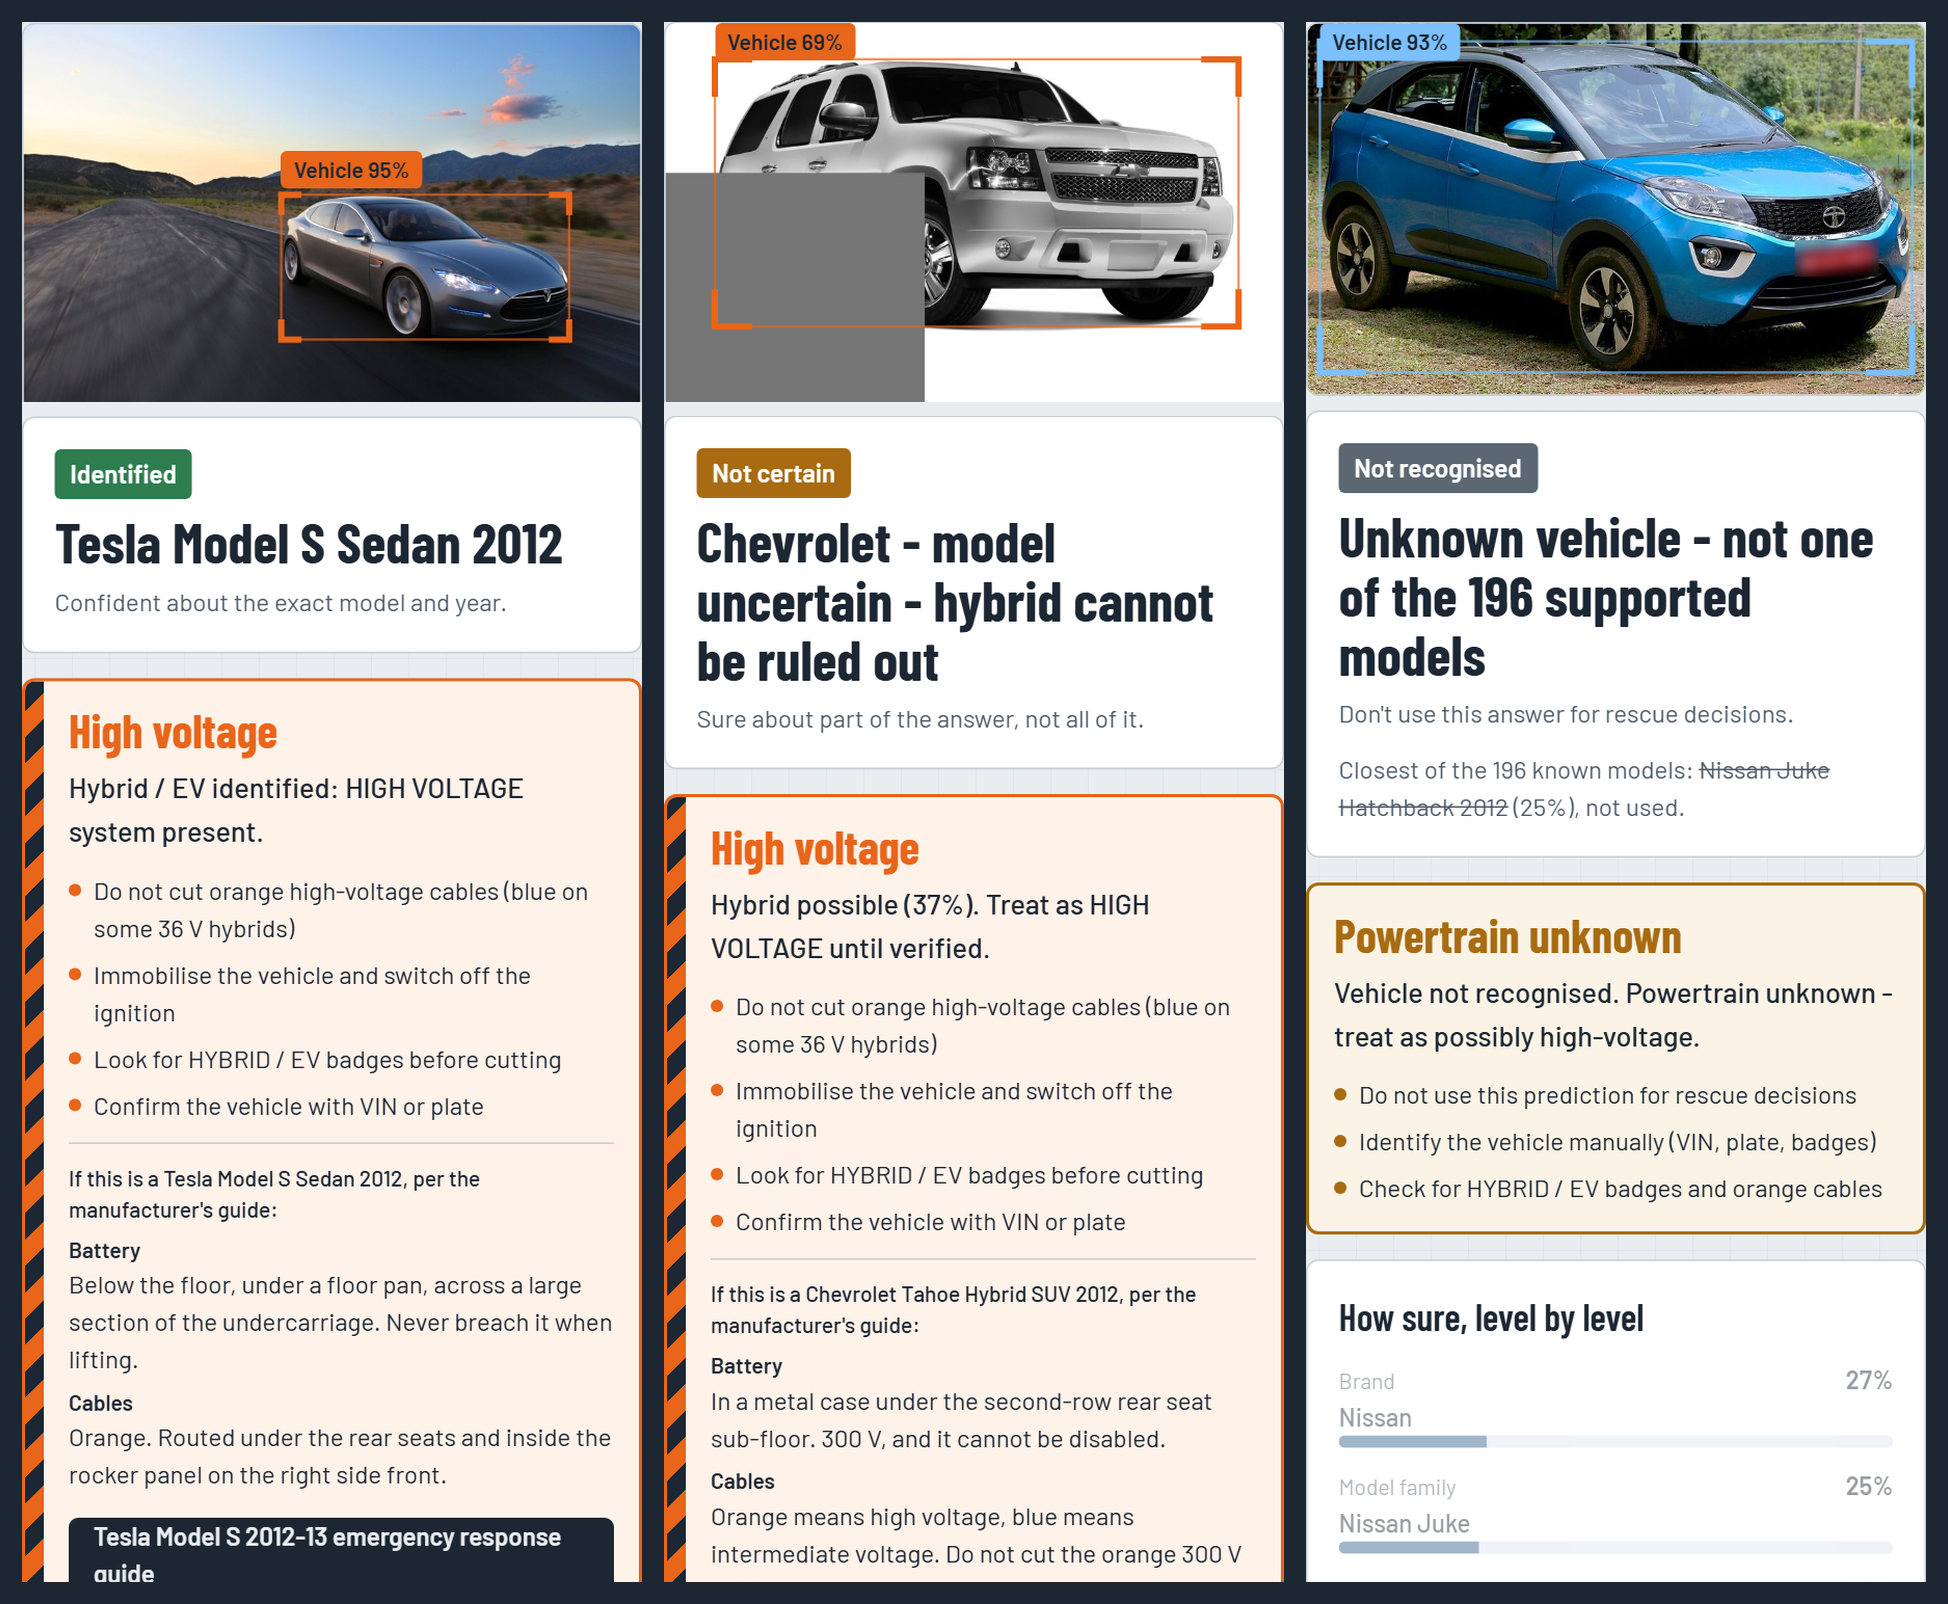
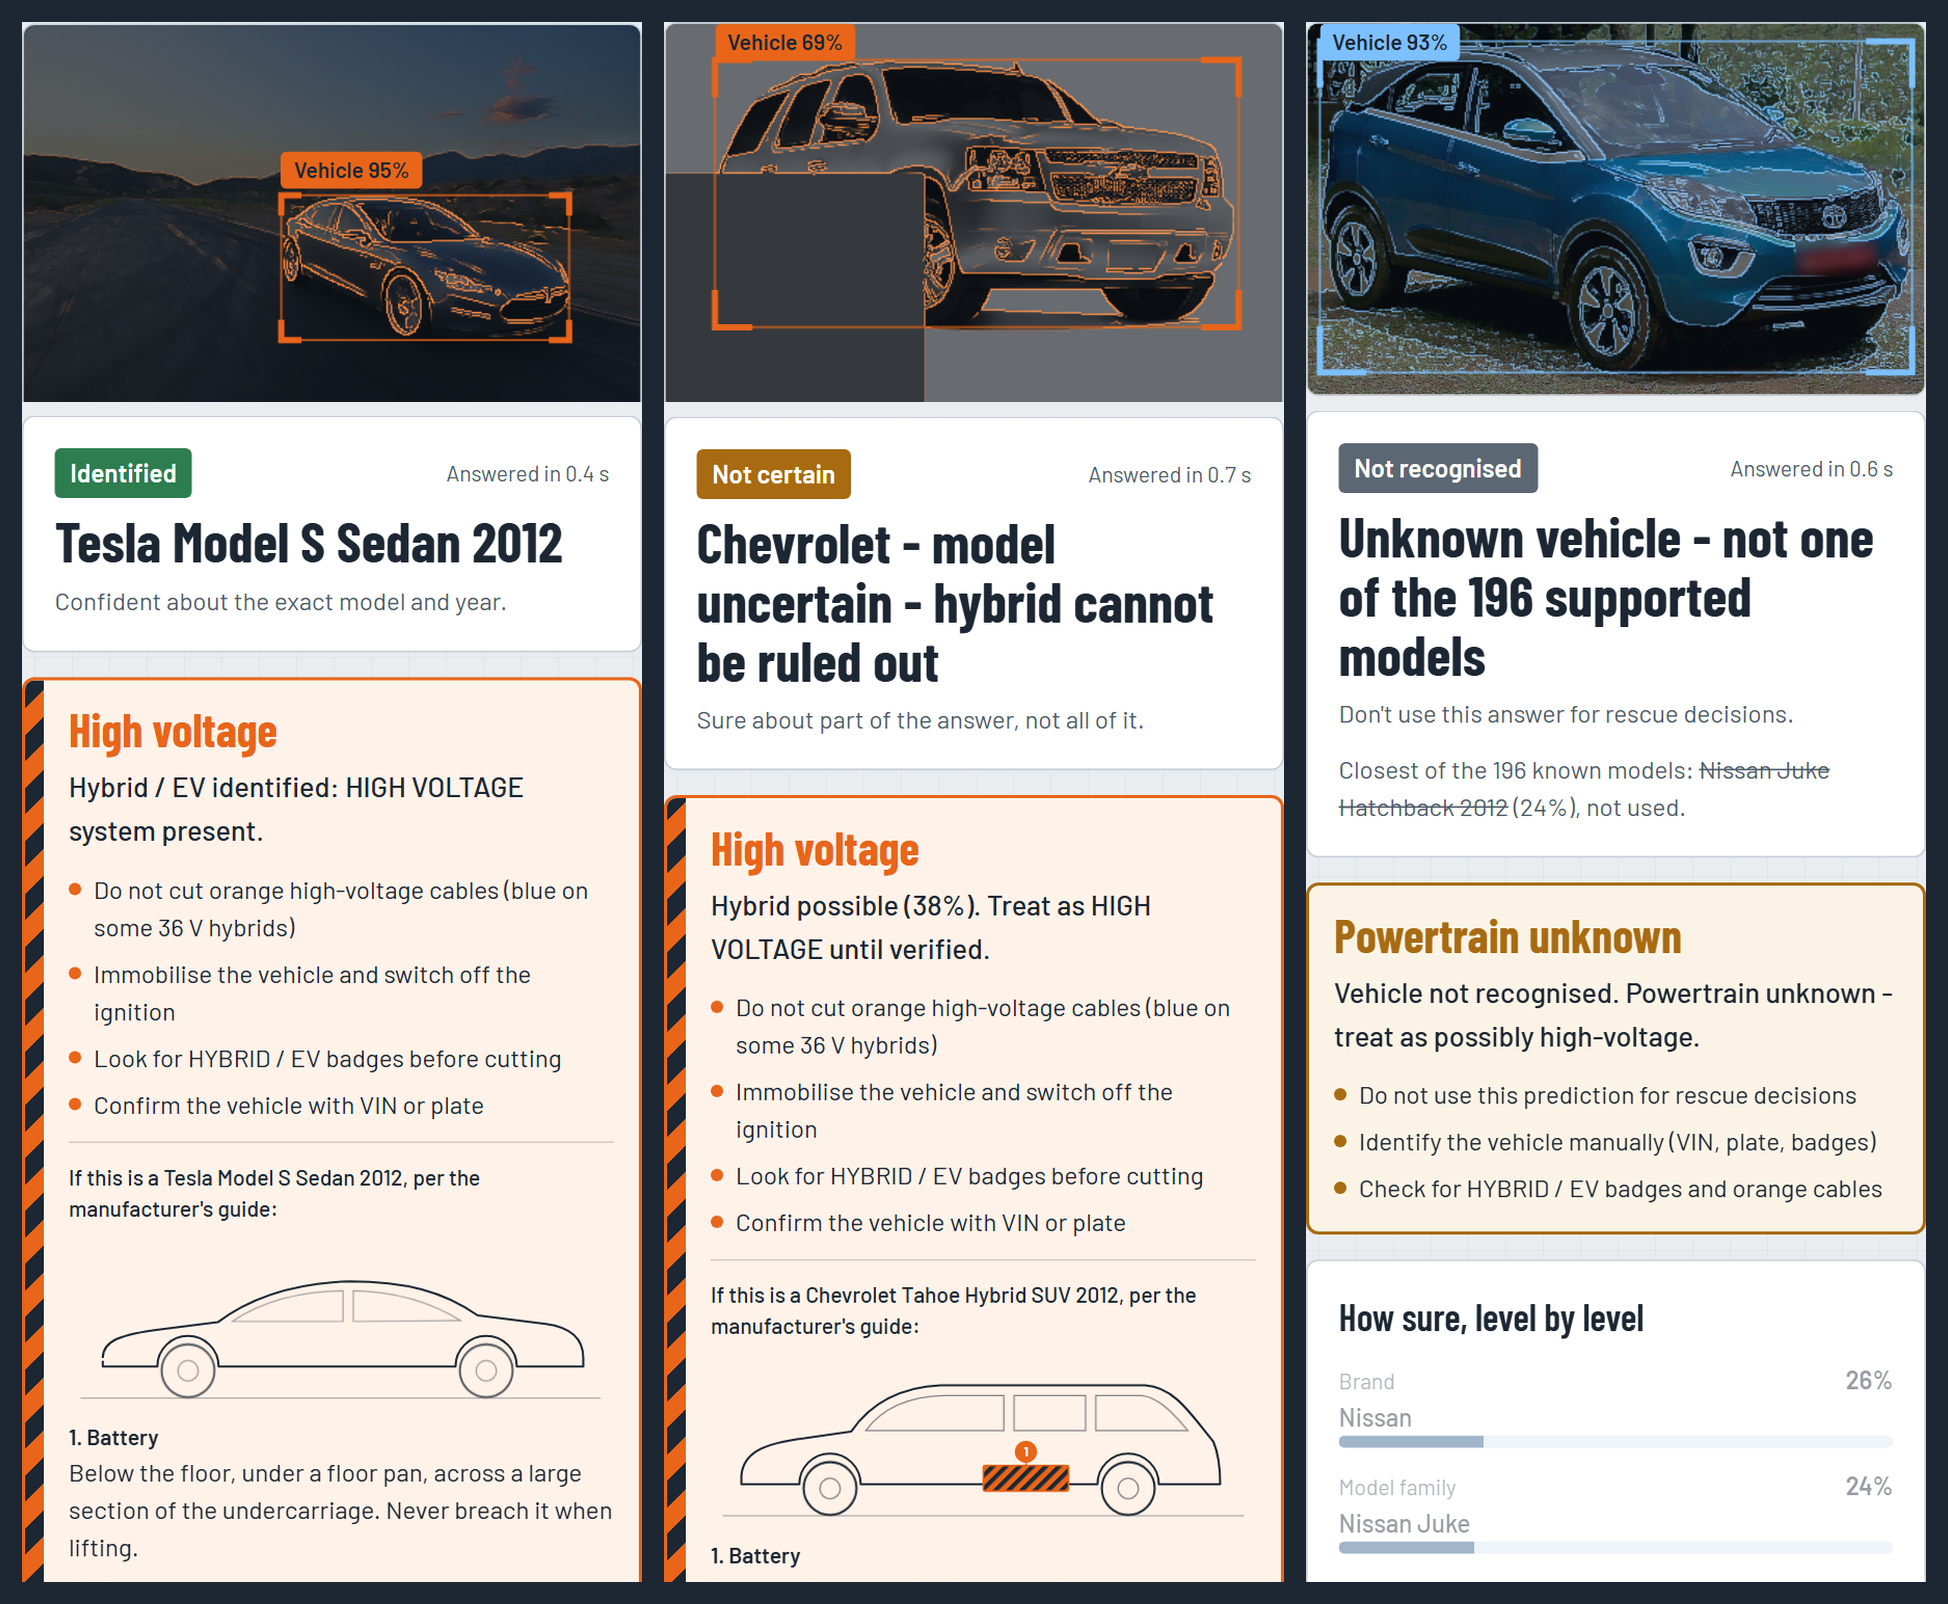
docs: update README visuals, demo recorder and viva sheet for the new UI

diff --git a/README.md b/README.md
@@ -45,12 +45,15 @@ RescueLens identifies a vehicle from how it looks, across 196 make, model and ye
 - **Live camera that locks.** A frame every 1.5 s, with a live edge drawing and corner ticks on the detected vehicle. Three agreeing frames lock the answer.
 - **Warnings never wait.** A high-voltage warning shows on the first frame that raises it, and a car flickering between "warning" and "no warning" can never lock as safe.
 - **Summed-probability safety rule.** No single hybrid has to win. If all 9 hybrid/EV classes together reach 5%, the warning fires.
-- **Battery and cable locations.** Read from manufacturer guides for all 9 models, with [every source and caveat listed](docs/hazard-sources.md).
+- **A rescue sheet that draws itself.** A technical drawing marks where the battery sits and how the cables run, read from manufacturer guides for all 9 models, with [every source and caveat listed](docs/hazard-sources.md).
 - **Unknown-car detection.** Softmax confidence can stay high on cars it has never seen, so it also measures distance to the training cars.
-- **Stress test.** Drag darkness, smoke, blur or occlusion sliders and watch the answer and the advice change.
+- **Automatic stress sweep.** One button runs your photo through the real model at 8 rising levels of darkness, smoke, blur or occlusion, plots the confidence curve live and says exactly where the answer broke.
+- **It shows its working.** While the model runs, the photo dims into a blueprint of its real edge map. When the answer lands, the drawing snaps onto the detected vehicle.
 - **Three approaches, side by side.** Classical computer vision, deep learning and the hybrid on the same photo, with every classical step visible.
 - **Works without signal (opt-in).** An installable app can run the models on the device, under the same safety rules, pinned to the server by a shared test file.
 - **Fails safely.** A crash shows safe advice and a "Start again" button, never a blank page.
+
+![The automatic stress sweep on the real model: the answer holds as blur rises, then the curve drops and the app says where it changed](docs/img/stress-sweep.png)
 
 ## Try these on the live app
 

diff --git a/docs/BUILD_PLAN.md b/docs/BUILD_PLAN.md
@@ -117,7 +117,7 @@ and update the "Run it" section of the README. (Decide as a team; it makes the m
 2. (0:20-0:50) Clear sample -> identified, box, pipeline steps.
 3. (0:50-1:20) "Hybrid that looks like a petrol car": classical-only says Sonata (petrol), RescueLens says Sonata **Hybrid**
    + high-voltage banner + official guide.
-4. (1:20-1:50) Stress test: slide blur/hidden until the status flips to "Not certain" and the advice changes.
+4. (1:20-1:50) Stress test: press "Sweep occlusion" or "Sweep blur" and let the curve show where the answer breaks.
 5. (1:50-2:20) Judge's own photo (likely an Indian car) -> "Not recognised, treat as possibly high-voltage".
 6. (2:20-2:50) Model report: 94.55% top-1, crop +2.9 points, INT8 3.5x smaller, 1.15% missed hybrids, 58 of 60 unknown cars caught.
    Live camera goes into step 4 if the phone and venue connection allow it (see `docs/field-kit.md` section 5).
@@ -176,7 +176,7 @@ Rules: never evaluate on the test split while choosing settings (use val); keep 
 ### Product features (beyond the rubric)
 8. **Offline on-device mode.** Run the INT8 classifier + YOLO in the browser with onnxruntime-web (WebGPU/WASM) as an
    installable PWA: rural crash sites often have no signal. Biggest "real product" upgrade.
-9. **Rescue-sheet overlay.** For models with an official sheet, draw the hazard zones (battery, HV cables, airbags) roughly
+9. **Rescue-sheet overlay** (a side-view schematic is done, `RescueSheet.tsx`; aligning it to the photo is not). For models with an official sheet, draw the hazard zones (battery, HV cables, airbags) roughly
    aligned to the detected box; mark clearly as approximate.
 10. **Live camera mode.** Classify video frames and lock the answer once confidence is stable over several frames.
 11. **Multiple vehicles.** Classify every detected vehicle (currently only the main one; others are drawn faint).

diff --git a/docs/viva/saatwik.md b/docs/viva/saatwik.md
@@ -9,6 +9,8 @@
 | How does the lock work? | One frame every 1.5 s, one request at a time. 3 agreeing frames in a row lock it. For an unknown car the closest match is ignored; for an ambiguous one only the level it is sure of counts. |
 | How is live mode kept safe? | The high-voltage state is part of what must agree, so a flickering warning can never lock as safe. A warning shows on the first frame that raises it and stays for 3 frames. |
 | Is the edge overlay real? | Yes. Sobel plus non-maximum suppression (the core of Canny) runs in the browser about 12 times a second, brightest inside the detector box. It is visual feedback; the answer comes from the server. |
+| What is the automatic sweep? | It re-renders the photo at 8 rising levels of one condition, sends each to the real model and plots usable confidence, marking the first level where the answer changes. Real calls, nothing precomputed. |
+| Is the rescue sheet accurate? | It marks the region the manufacturer's guide describes on a generic body shape. Not to scale, and the app says it isn't a guide for where to cut. |
 | What if something breaks? | An error boundary shows "Start again" plus safe advice. Blocked camera and lost server each have their own message. Browser tests cover these and run on every push. |
 
 **Your failure case:** Mahindra Thar answered as Jeep Wrangler: it is styled on the Wrangler, so the unknown check can miss close look-alikes.

diff --git a/docs/hazard-sources.md b/docs/hazard-sources.md
@@ -16,6 +16,8 @@ from memory. The app shows these lines to someone deciding where to cut, so:
 | Hyundai Sonata Hybrid 2012 | [LF Sonata HEV Emergency Response Guide](https://boronextrication.com/wp-content/uploads/2010/11/LF-SONATA-HEV-Emergency-Response-Guide.pdf) (Hyundai) | Boron Extrication | p.11 | p.6-7, p.30 |
 | Fisker Karma 2012 | [High Voltage Safety and First Response Info Guide, Nov 2011](https://www.morongovalleyfire.org/files/14cfd88f9/Fisker+Karma+PHEV+2011-2012+ERG.pdf) (Fisker Automotive) | Morongo Valley fire department | p.4 diagram, p.27 | p.4, p.16 |
 
+The rescue-sheet drawing uses `schematic` from the same file. It marks the region the guide describes on a generic body shape, so it is not to scale, and it only draws a cable route the guide states (Sonata, Malibu).
+
 ## Caveats to say out loud in the viva
 
 1. **Seven of the nine links are copies.** Only Tesla and Nissan are served by the manufacturer. The others were published by the
